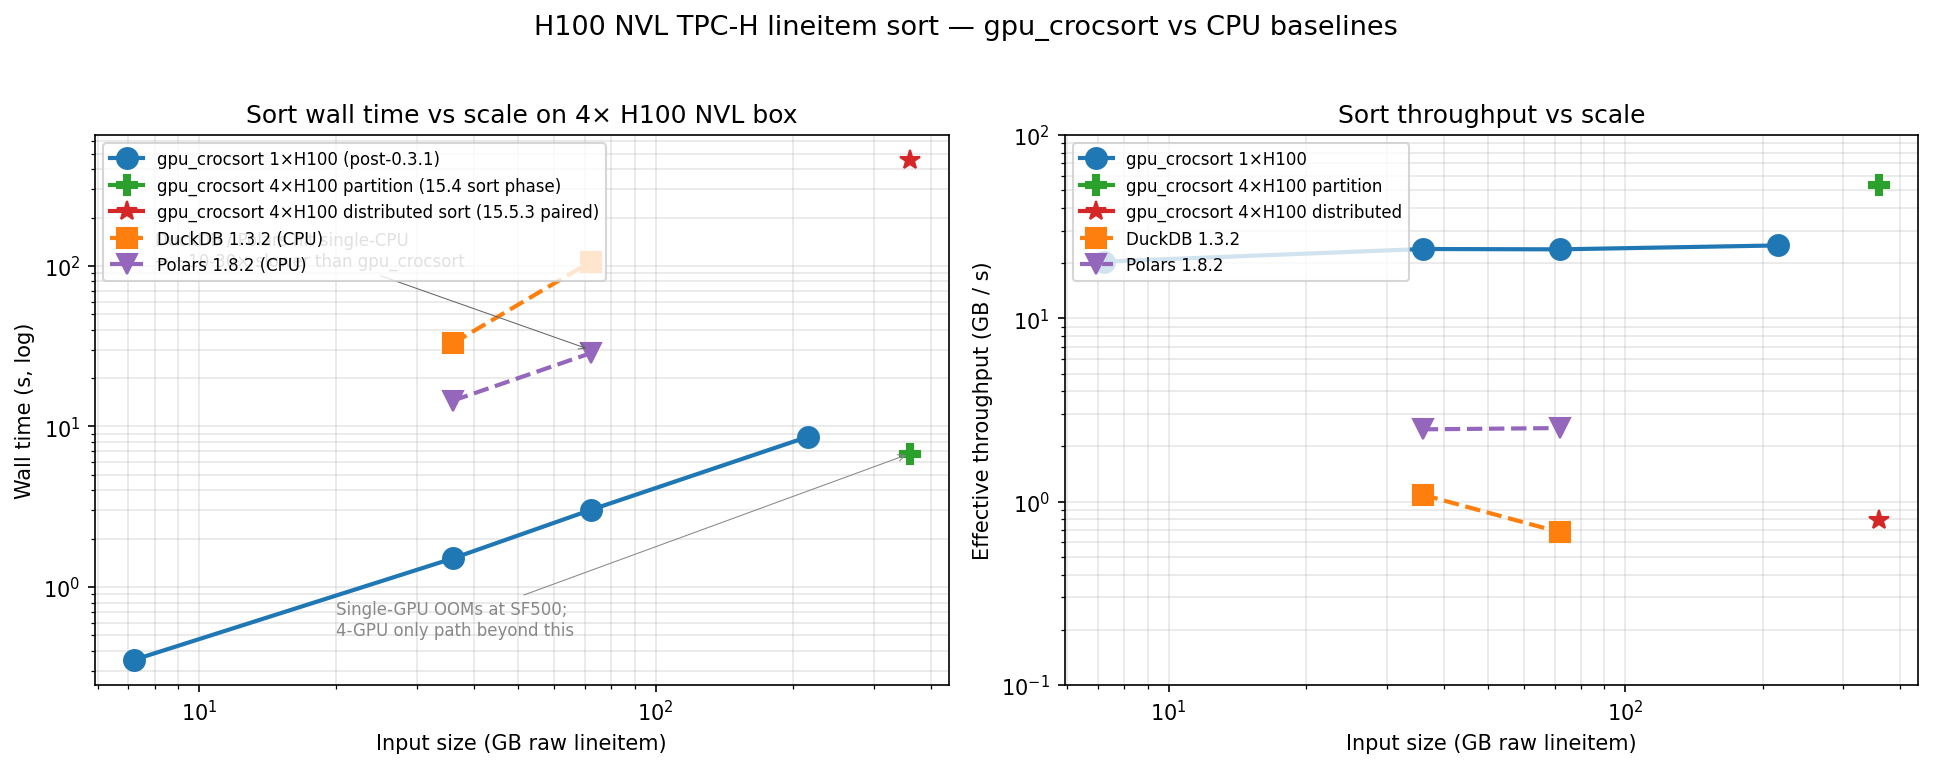
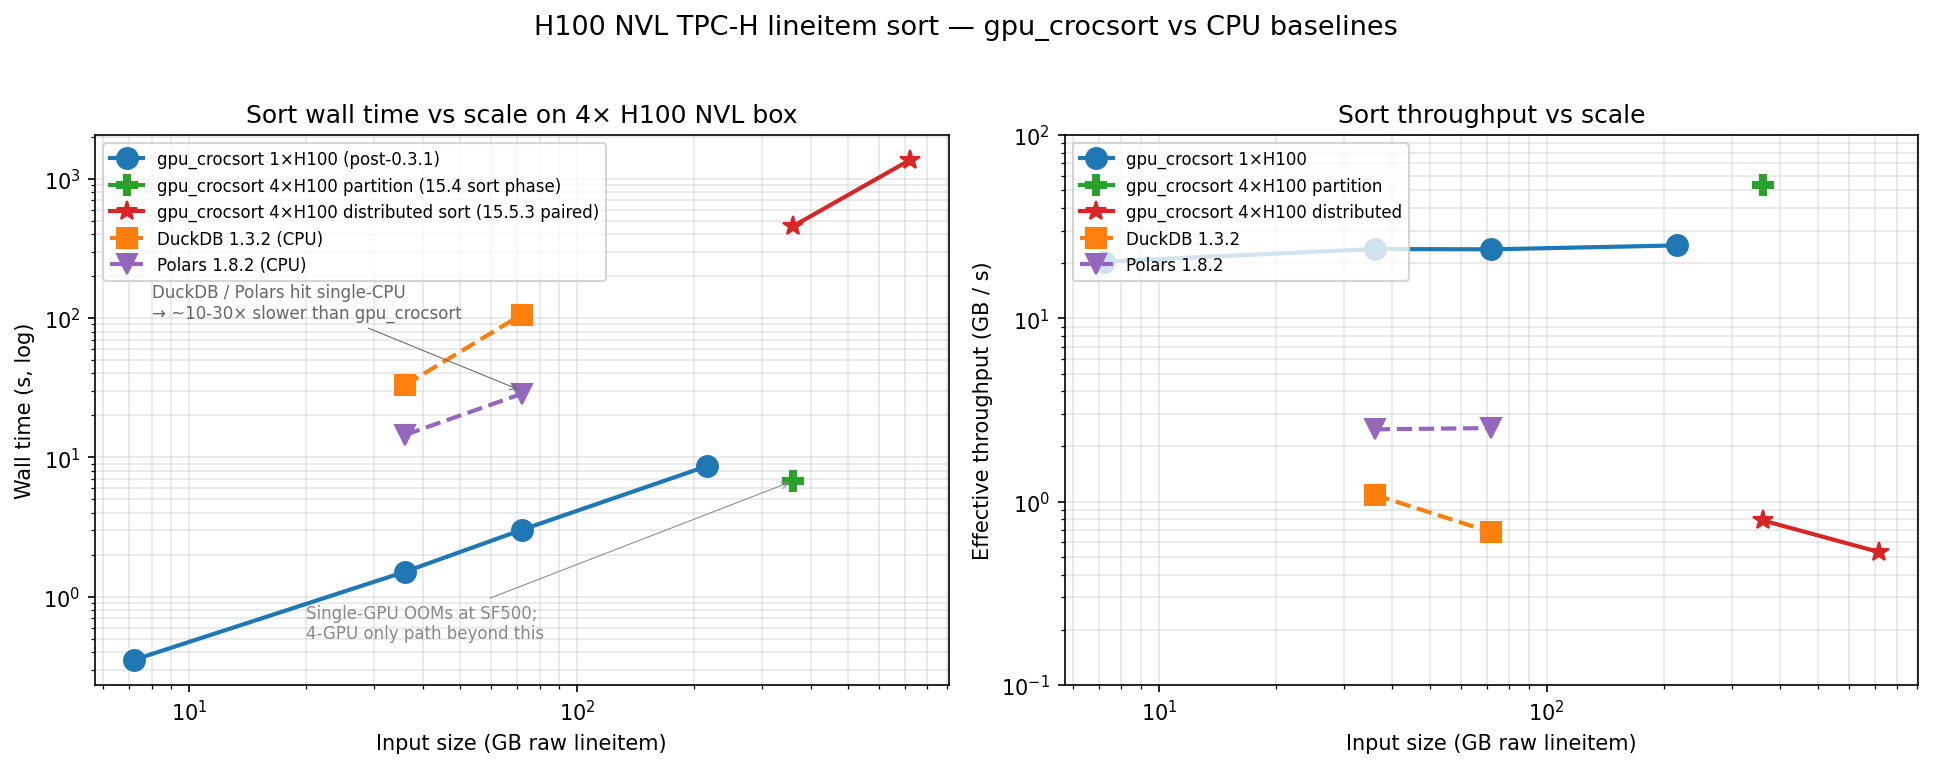
results: FINAL chart updated with SF1000 distributed (22m40s)

diff --git a/results/h100_runs/FINAL_chart.py b/results/h100_runs/FINAL_chart.py
@@ -26,7 +26,8 @@ gpu_crocsort_4g_partition = [
     ("SF500-4G-partition",  360.00, 6.77, 53.2),  # 15.4 sort phase only (no merge → not globally sorted)
 ]
 gpu_crocsort_4g_distributed = [
-    ("SF500-4G-distributed", 360.00, 456.0, 0.79),  # 15.5.3 paired, globally sorted
+    ("SF500-4G-distributed", 360.00, 456.0, 0.79),   # 15.5.3 paired, globally sorted
+    ("SF1000-4G-distributed", 720.00, 1360.0, 0.53), # 15.5.3 paired SF1000 22m40s
 ]
 duckdb_1g = [
     ("SF50",   36.00, 33.0, 1.09),
